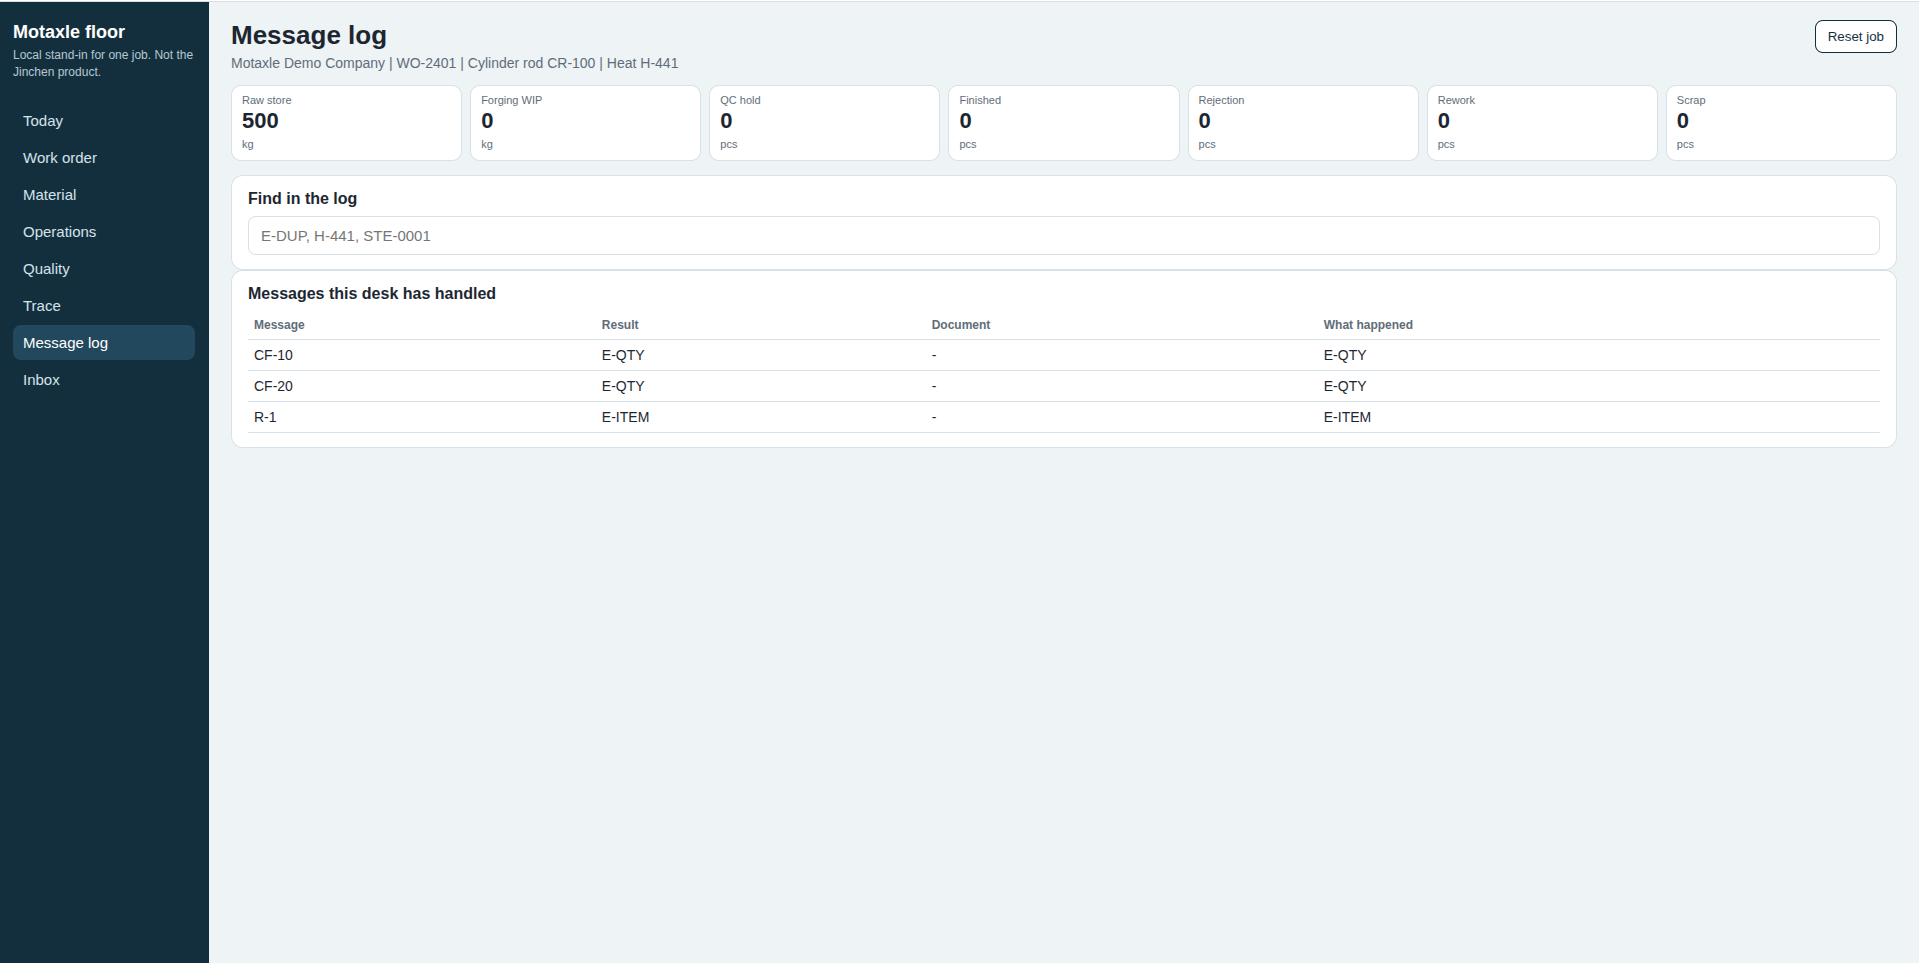
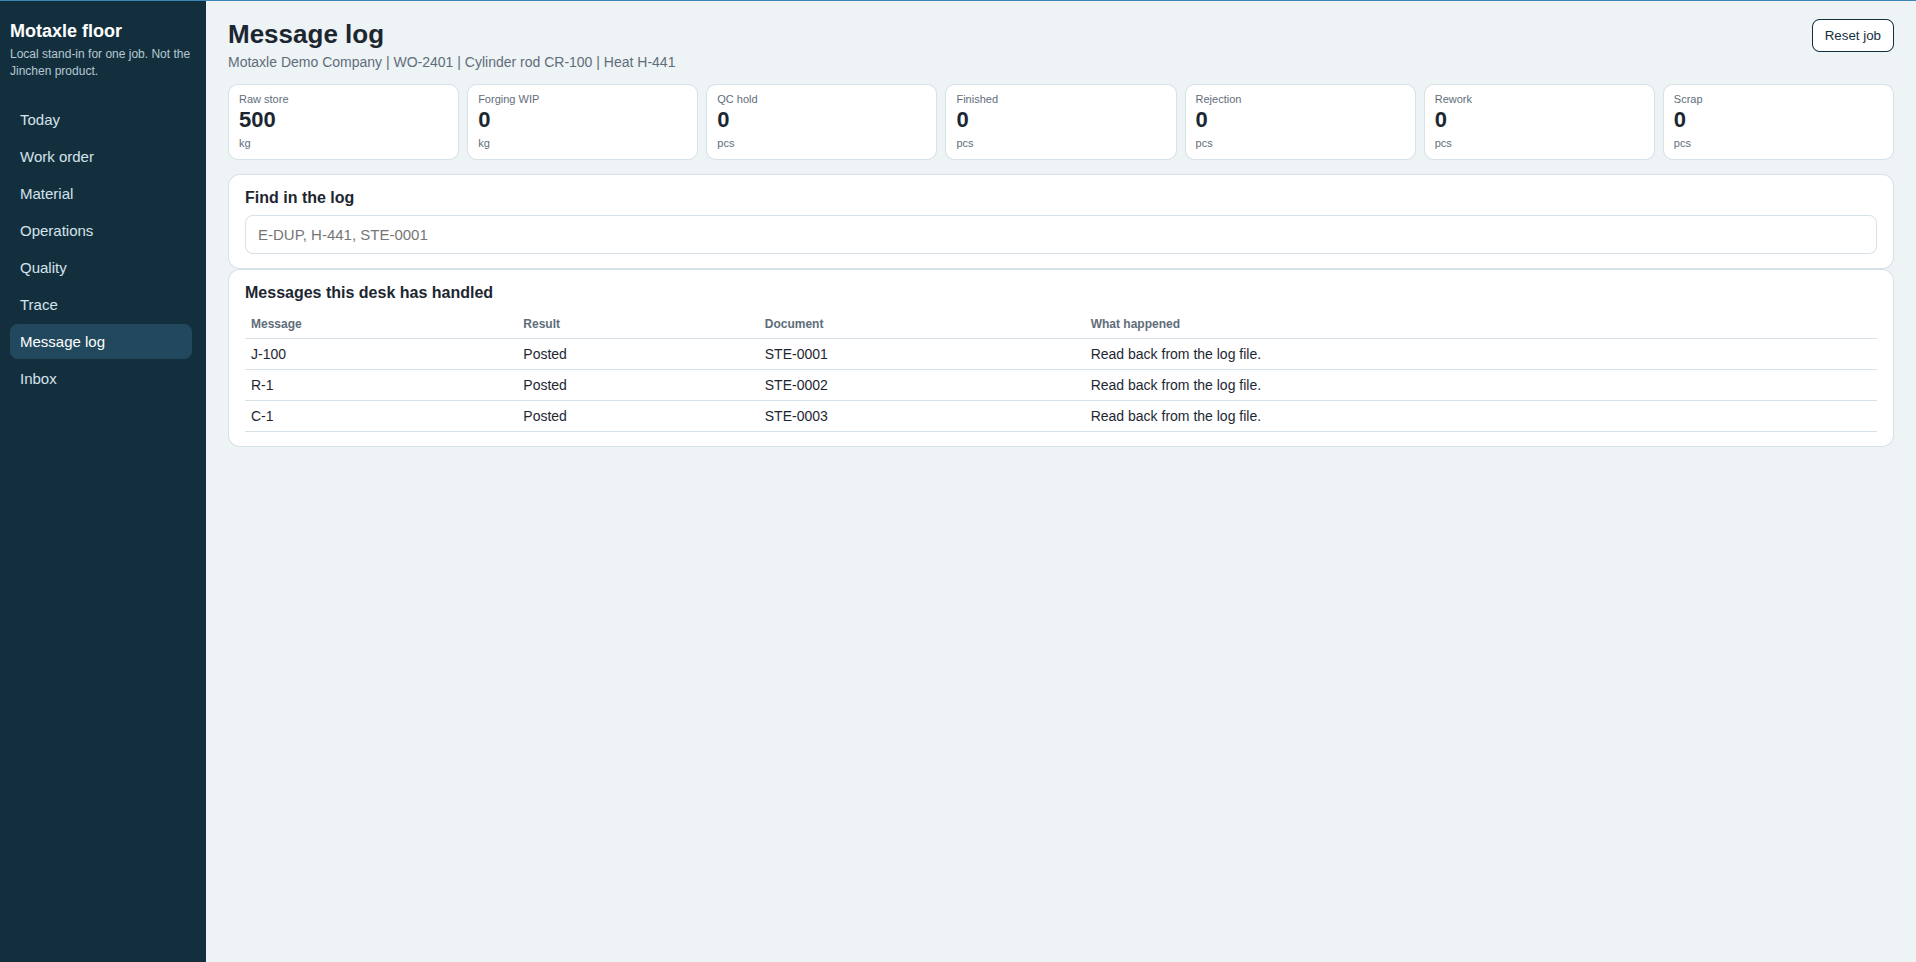
Fix Desk log isolation, restore message, and update evidence shot
- Set Desk default log_path to None and only enable log in main()
- Remove inspect.currentframe() from Desk.reset()
- Restore log rows with 'Read back from the log file.' message
- Move imports to top of files and catch OSError instead of broad Exception
- Add isolation and restart recovery tests in test_log.py
- Update demo/shots/log-after-restart.png with three Posted rows

diff --git a/motaxle-jinchen-connector/server.py b/motaxle-jinchen-connector/server.py
@@ -31,16 +31,17 @@ LOG_PATH = os.path.join(os.path.dirname(os.path.abspath(__file__)), "inbox", "lo
 
 
 class Desk:
-    def __init__(self, weight=None):
+    def __init__(self, weight=None, log_path=None):
         self.weight = weight
-        self.connector = Connector(weight=self.weight, log_path=LOG_PATH)
+        self.log_path = log_path
+        self.connector = Connector(weight=self.weight, log_path=self.log_path)
         self.attempts = [
             {
                 "id": row.ref,
                 "status": row.status,
                 "code": row.code,
                 "document": row.document,
-                "message": row.document or row.code or row.status,
+                "message": "Read back from the log file.",
             }
             for row in self.connector.log
         ]
@@ -49,38 +50,23 @@ class Desk:
         self.released = False
 
     def reset(self):
-        import inspect
-        caller = inspect.currentframe().f_back.f_code.co_name
-        if caller != "main" and os.path.exists(LOG_PATH):
+        if self.log_path and os.path.exists(self.log_path):
             try:
-                os.remove(LOG_PATH)
+                os.remove(self.log_path)
             except OSError:
                 pass
-        self.connector = Connector(weight=self.weight, log_path=LOG_PATH)
-        if caller != "main":
-            self.attempts = []
-        else:
-            self.attempts = [
-                {
-                    "id": row.ref,
-                    "status": row.status,
-                    "code": row.code,
-                    "document": row.document,
-                    "message": row.document or row.code or row.status,
-                }
-                for row in self.connector.log
-            ]
+        self.connector = Connector(weight=self.weight, log_path=self.log_path)
+        self.attempts = []
         self.switch_a = False
         self.switch_b = False
         self.released = False
-        if caller != "main":
-            self.attempts.append({
-                "id": "reset",
-                "status": "Posted",
-                "code": "",
-                "document": "",
-                "message": "Job reset. The message log was cleared.",
-            })
+        self.attempts.append({
+            "id": "reset",
+            "status": "Posted",
+            "code": "",
+            "document": "",
+            "message": "Job reset. The message log was cleared.",
+        })
 
     def run(self, action_id):
         spec = ACTIONS.get(action_id)
@@ -1040,14 +1026,14 @@ class Handler(BaseHTTPRequestHandler):
 
 
 def main():
+    global DESK
     try:
         config = load_config()
     except ConfigError as exc:
         print(str(exc), flush=True)
         print("The desk did not start.", flush=True)
         return 1
-    DESK.weight = config["weight"]
-    DESK.reset()
+    DESK = Desk(weight=config["weight"], log_path=LOG_PATH)
     server = ThreadingHTTPServer((HOST, PORT), Handler)
     print("Open http://%s:%d" % (HOST, PORT), flush=True)
     print("Ctrl+C stops it.", flush=True)

diff --git a/motaxle-jinchen-connector/tests/test_log.py b/motaxle-jinchen-connector/tests/test_log.py
@@ -106,19 +106,43 @@ class LogTests(unittest.TestCase):
     def test_desk_reset_clears_log_file_and_records_message(self):
         with tempfile.TemporaryDirectory() as temp:
             log_file = Path(temp) / "log.jsonl"
+            desk = Desk(log_path=str(log_file))
+            desk.run("confirm-10")
+            self.assertTrue(log_file.exists())
+            desk.reset()
+            self.assertFalse(log_file.exists())
+            self.assertEqual(len(desk.attempts), 1)
+            self.assertEqual(desk.attempts[0]["id"], "reset")
+            self.assertEqual(desk.attempts[0]["status"], "Posted")
+            self.assertEqual(
+                desk.attempts[0]["message"],
+                "Job reset. The message log was cleared.",
+            )
+
+    def test_desk_with_no_log_path_creates_no_file(self):
+        with tempfile.TemporaryDirectory() as temp:
+            log_file = Path(temp) / "log.jsonl"
             with mock.patch("server.LOG_PATH", str(log_file)):
                 desk = Desk()
-                desk.run("confirm-10")
-                self.assertTrue(log_file.exists())
-                desk.reset()
+                desk.run("issue")
                 self.assertFalse(log_file.exists())
-                self.assertEqual(len(desk.attempts), 1)
-                self.assertEqual(desk.attempts[0]["id"], "reset")
-                self.assertEqual(desk.attempts[0]["status"], "Posted")
-                self.assertEqual(
-                    desk.attempts[0]["message"],
-                    "Job reset. The message log was cleared.",
-                )
+
+    def test_desk_restart_loads_same_three_rows_in_attempts(self):
+        with tempfile.TemporaryDirectory() as temp:
+            log_file = Path(temp) / "log.jsonl"
+            desk1 = Desk(log_path=str(log_file))
+            desk1.run("confirm-10")
+            desk1.run("confirm-20")
+            desk1.run("confirm-30")
+            self.assertEqual(len(desk1.attempts), 3)
+
+            desk2 = Desk(log_path=str(log_file))
+            self.assertEqual(len(desk2.attempts), 3)
+            for row in desk2.attempts:
+                self.assertEqual(row["message"], "Read back from the log file.")
+            self.assertEqual(desk2.attempts[0]["id"], "CF-10")
+            self.assertEqual(desk2.attempts[1]["id"], "CF-20")
+            self.assertEqual(desk2.attempts[2]["id"], "CF-30")
 
     def test_log_file_contains_no_password(self):
         with tempfile.TemporaryDirectory() as temp:

diff --git a/motaxle-jinchen-connector/connector/poc.py b/motaxle-jinchen-connector/connector/poc.py
@@ -6,7 +6,9 @@ No network call is made. Field names are the POC contract, not a signed API.
 
 from __future__ import annotations
 
+import json
 from dataclasses import dataclass, field
+from pathlib import Path
 
 
 RAW = "Raw Material Store"
@@ -161,8 +163,6 @@ class Connector:
         self.ledger = Ledger()
         self.log = []
         if self.log_path:
-            import json
-            from pathlib import Path
             p = Path(self.log_path)
             if p.is_file():
                 try:
@@ -186,7 +186,7 @@ class Connector:
                                 )
                         except (json.JSONDecodeError, UnicodeDecodeError):
                             continue
-                except Exception:
+                except OSError:
                     pass
         self.confirmations = []
         self.output_batches = {}
@@ -202,8 +202,6 @@ class Connector:
         row = LogRow(ref, work_order, kind, status, code, document, dict(quantities or {}))
         self.log.append(row)
         if self.log_path:
-            import json
-            from pathlib import Path
             Path(self.log_path).parent.mkdir(parents=True, exist_ok=True)
             row_dict = {
                 "ref": ref,
